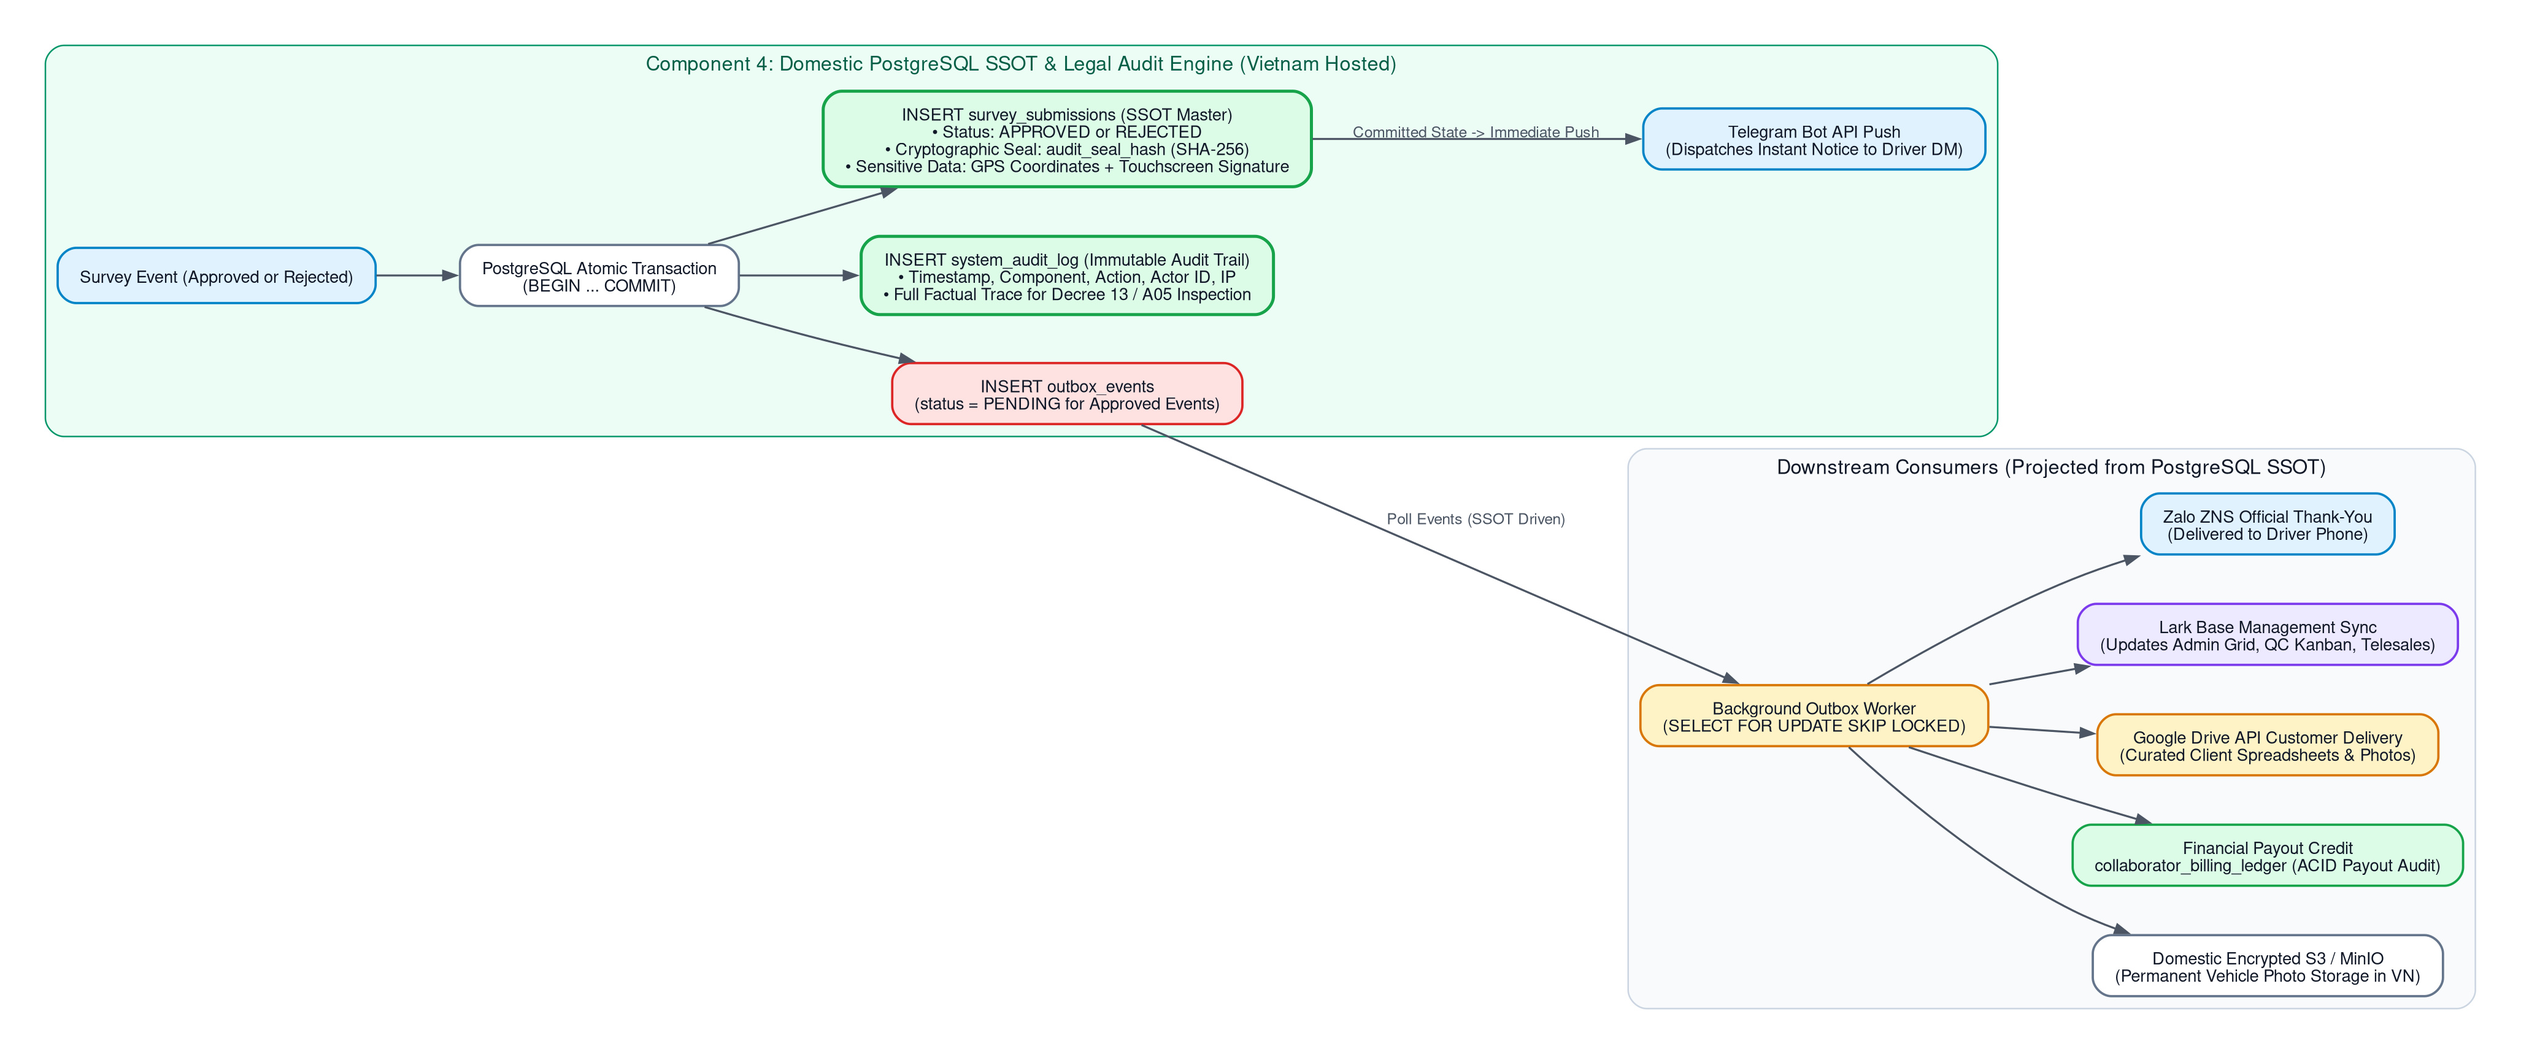
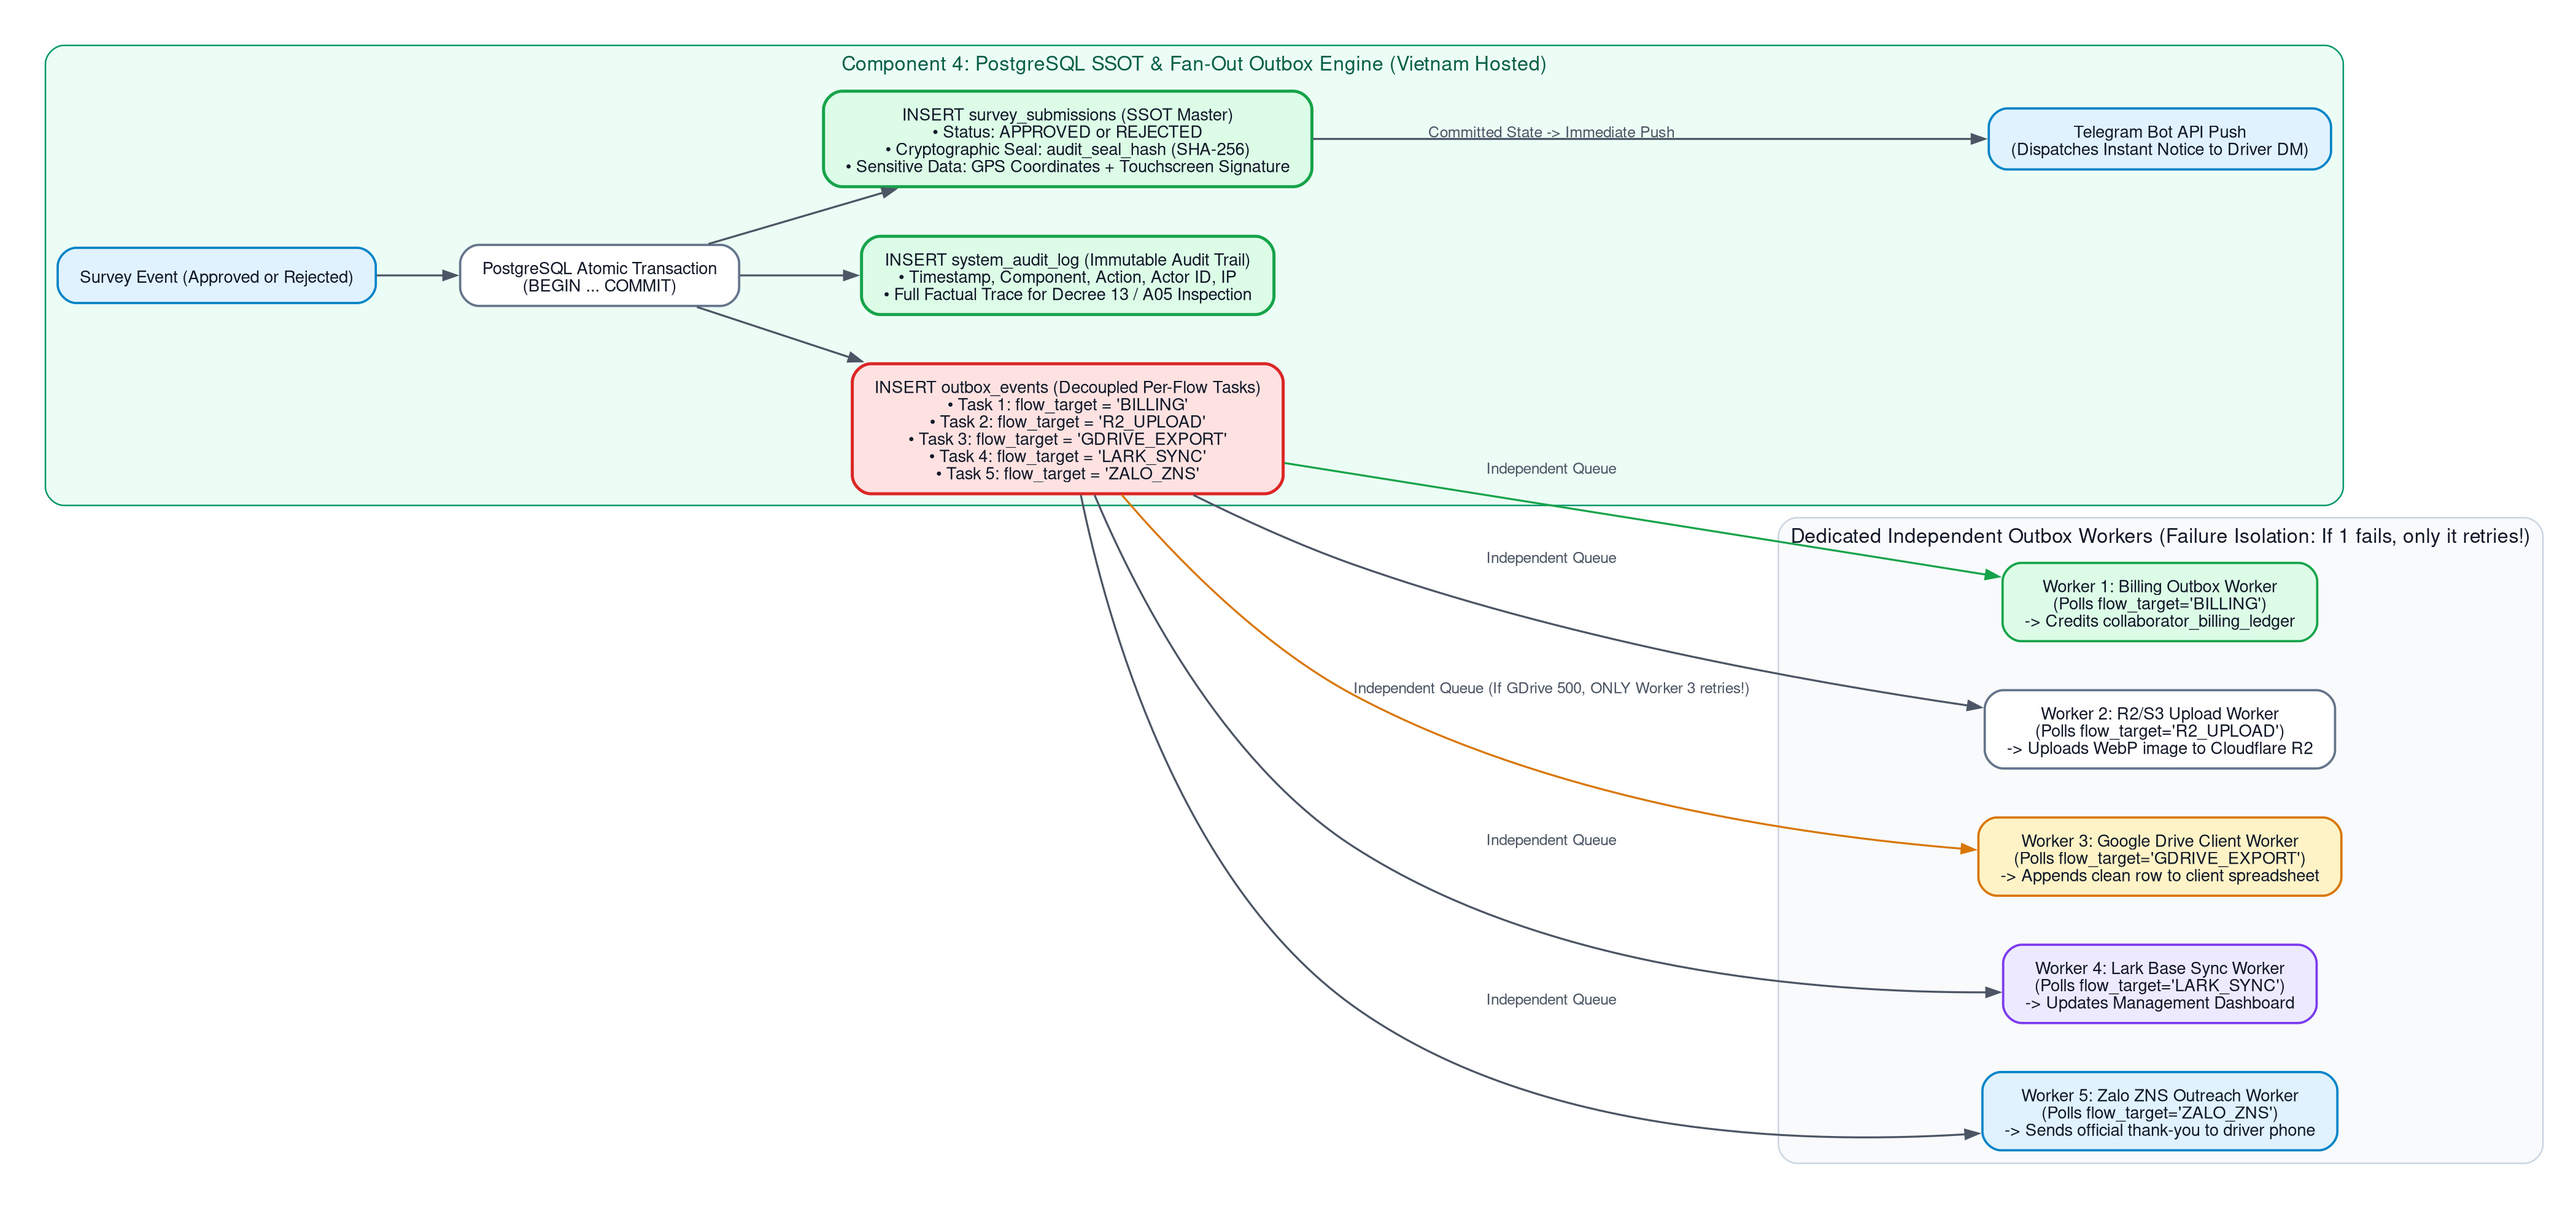
feat(outbox): decouple downstream dispatch into dedicated per-flow workers with failure isolation

diff --git a/render_charts.py b/render_charts.py
@@ -282,43 +282,43 @@ digraph G {
 }
 """
 
-# Chart 5: Component 4 Persistence & Delivery (SSOT Hub Architecture)
+# Chart 5: Component 4 Persistence & Delivery (Dedicated Per-Flow Outbox Workers)
 CHART_5 = COMMON_HEADER + """
     subgraph cluster_ssot_hub {
-        label="Component 4: Domestic PostgreSQL SSOT & Legal Audit Engine (Vietnam Hosted)";
+        label="Component 4: PostgreSQL SSOT & Fan-Out Outbox Engine (Vietnam Hosted)";
         style="rounded,filled"; fillcolor="#ecfdf5"; color="#059669"; fontcolor="#065f46";
 
         survey_event_in [label="Survey Event (Approved or Rejected)", fillcolor="#e0f2fe", color="#0284c7"];
         sql_tx [label="PostgreSQL Atomic Transaction\\n(BEGIN ... COMMIT)", fillcolor="#ffffff", color="#64748b"];
         sub_table [label="INSERT survey_submissions (SSOT Master)\\n• Status: APPROVED or REJECTED\\n• Cryptographic Seal: audit_seal_hash (SHA-256)\\n• Sensitive Data: GPS Coordinates + Touchscreen Signature", fillcolor="#dcfce7", color="#16a34a", penwidth=2.0];
         audit_log [label="INSERT system_audit_log (Immutable Audit Trail)\\n• Timestamp, Component, Action, Actor ID, IP\\n• Full Factual Trace for Decree 13 / A05 Inspection", fillcolor="#dcfce7", color="#16a34a", penwidth=2.0];
-        outbox_table [label="INSERT outbox_events\\n(status = PENDING for Approved Events)", fillcolor="#fee2e2", color="#dc2626"];
+        
+        outbox_fanout [label="INSERT outbox_events (Decoupled Per-Flow Tasks)\\n• Task 1: flow_target = 'BILLING'\\n• Task 2: flow_target = 'R2_UPLOAD'\\n• Task 3: flow_target = 'GDRIVE_EXPORT'\\n• Task 4: flow_target = 'LARK_SYNC'\\n• Task 5: flow_target = 'ZALO_ZNS'", fillcolor="#fee2e2", color="#dc2626", penwidth=2.0];
         tg_push [label="Telegram Bot API Push\\n(Dispatches Instant Notice to Driver DM)", fillcolor="#e0f2fe", color="#0284c7"];
     }
 
-    subgraph cluster_downstream_dispatch {
-        label="Downstream Consumers (Projected from PostgreSQL SSOT)";
+    subgraph cluster_dedicated_workers {
+        label="Dedicated Independent Outbox Workers (Failure Isolation: If 1 fails, only it retries!)";
         style="rounded,filled"; fillcolor="#f8fafc"; color="#cbd5e1";
 
-        poller [label="Background Outbox Worker\\n(SELECT FOR UPDATE SKIP LOCKED)", fillcolor="#fef3c7", color="#d97706"];
-        s3_upload [label="Domestic Encrypted S3 / MinIO\\n(Permanent Vehicle Photo Storage in VN)", fillcolor="#ffffff", color="#64748b"];
-        ledger_credit [label="Financial Payout Credit\\ncollaborator_billing_ledger (ACID Payout Audit)", fillcolor="#dcfce7", color="#16a34a"];
-        gdrive_sync [label="Google Drive API Customer Delivery\\n(Curated Client Spreadsheets & Photos)", fillcolor="#fef3c7", color="#d97706"];
-        lark_sync [label="Lark Base Management Sync\\n(Updates Admin Grid, QC Kanban, Telesales)", fillcolor="#ede9fe", color="#7c3aed"];
-        zns_notify [label="Zalo ZNS Official Thank-You\\n(Delivered to Driver Phone)", fillcolor="#e0f2fe", color="#0284c7"];
+        w_billing [label="Worker 1: Billing Outbox Worker\\n(Polls flow_target='BILLING')\\n-> Credits collaborator_billing_ledger", fillcolor="#dcfce7", color="#16a34a"];
+        w_r2 [label="Worker 2: R2/S3 Upload Worker\\n(Polls flow_target='R2_UPLOAD')\\n-> Uploads WebP image to Cloudflare R2", fillcolor="#ffffff", color="#64748b"];
+        w_gdrive [label="Worker 3: Google Drive Client Worker\\n(Polls flow_target='GDRIVE_EXPORT')\\n-> Appends clean row to client spreadsheet", fillcolor="#fef3c7", color="#d97706"];
+        w_lark [label="Worker 4: Lark Base Sync Worker\\n(Polls flow_target='LARK_SYNC')\\n-> Updates Management Dashboard", fillcolor="#ede9fe", color="#7c3aed"];
+        w_zalo [label="Worker 5: Zalo ZNS Outreach Worker\\n(Polls flow_target='ZALO_ZNS')\\n-> Sends official thank-you to driver phone", fillcolor="#e0f2fe", color="#0284c7"];
     }
 
     survey_event_in -> sql_tx;
     sql_tx -> sub_table;
     sql_tx -> audit_log;
-    sql_tx -> outbox_table;
+    sql_tx -> outbox_fanout;
     sub_table -> tg_push [label="Committed State -> Immediate Push"];
-    outbox_table -> poller [label="Poll Events (SSOT Driven)"];
-    poller -> s3_upload;
-    poller -> ledger_credit;
-    poller -> gdrive_sync;
-    poller -> lark_sync;
-    poller -> zns_notify;
+    
+    outbox_fanout -> w_billing [label="Independent Queue", color="#16a34a"];
+    outbox_fanout -> w_r2 [label="Independent Queue"];
+    outbox_fanout -> w_gdrive [label="Independent Queue (If GDrive 500, ONLY Worker 3 retries!)", color="#d97706"];
+    outbox_fanout -> w_lark [label="Independent Queue"];
+    outbox_fanout -> w_zalo [label="Independent Queue"];
 }
 """
 

diff --git a/workers/outbox_worker.py b/workers/outbox_worker.py
@@ -10,10 +10,13 @@ logging.basicConfig(level=logging.INFO)
 logger = logging.getLogger("outbox_worker")
 
 
-async def process_outbox_batch(conn_str: str, batch_size: int = 50) -> int:
+async def process_outbox_batch(
+    conn_str: str, batch_size: int = 50, flow_target: Optional[str] = None
+) -> int:
     """
     Polls and processes pending outbox events using FOR UPDATE SKIP LOCKED.
-    Bypasses PgBouncer transaction pooling limitations cleanly.
+    Supports dedicated worker loops per flow target (BILLING, R2_UPLOAD, GDRIVE_EXPORT, LARK_SYNC, ZALO_ZNS).
+    If one flow fails, only that flow retries, preventing cascading stalls across outputs.
     """
     processed_count = 0
     try:
@@ -22,18 +25,19 @@ async def process_outbox_batch(conn_str: str, batch_size: int = 50) -> int:
         ) as conn:
             async with conn.transaction():
                 async with conn.cursor() as cur:
-                    # 1. claim batch of events safely
+                    # 1. claim batch of events safely filtered by flow_target
                     await cur.execute(
                         """
-                        SELECT id, event_type, aggregate_id, payload
+                        SELECT id, event_type, flow_target, aggregate_id, payload
                         FROM outbox_events
-                        WHERE status = 'PENDING'
-                           OR (status = 'PROCESSING' AND locked_at < NOW() - INTERVAL '60 SECONDS')
+                        WHERE (%s IS NULL OR flow_target = %s OR flow_target = 'ALL')
+                          AND (status = 'PENDING'
+                               OR (status = 'PROCESSING' AND locked_at < NOW() - INTERVAL '60 SECONDS'))
                         ORDER BY id ASC
                         LIMIT %s
                         FOR UPDATE SKIP LOCKED;
                     """,
-                        (batch_size,),
+                        (flow_target, flow_target, batch_size),
                     )
                     events = await cur.fetchall()
 
@@ -57,11 +61,12 @@ async def process_outbox_batch(conn_str: str, batch_size: int = 50) -> int:
                                 payload = ev["payload"]
                                 submission_id = ev["aggregate_id"]
 
-                                if ev["event_type"] == "SURVEY_APPROVED":
+                                target = ev.get("flow_target", "ALL")
+
+                                # FLOW A: Financial Ledger Payout
+                                if target in ("BILLING", "ALL") and ev["event_type"] == "SURVEY_APPROVED":
                                     collab_id = payload.get("collaborator_id")
                                     payout_amount = payload.get("payout_vnd", 25000)
-
-                                    # credit financial ledger idempotently
                                     await cur.execute(
                                         """
                                         INSERT INTO collaborator_billing_ledger (
@@ -72,6 +77,21 @@ async def process_outbox_batch(conn_str: str, batch_size: int = 50) -> int:
                                         (collab_id, submission_id, payout_amount),
                                     )
 
+                                # FLOW B: Cloudflare R2 Upload (simulated / dispatched)
+                                elif target == "R2_UPLOAD":
+                                    logger.info(f"[R2_WORKER] uploaded image for #{submission_id}")
+
+                                # FLOW C: Google Drive Client Export (simulated / dispatched)
+                                elif target == "GDRIVE_EXPORT":
+                                    logger.info(f"[GDRIVE_WORKER] exported spreadsheet row for #{submission_id}")
+
+                                # FLOW D: Lark Base Dashboard Sync
+                                elif target == "LARK_SYNC":
+                                    logger.info(f"[LARK_WORKER] synced survey #{submission_id} to Lark Base")
+
+                                # FLOW E: Zalo ZNS Phone Notification
+                                elif target == "ZALO_ZNS":
+                                    logger.info(f"[ZALO_WORKER] sent ZNS thank-you for #{submission_id}")
                                 # mark as processed
                                 await cur.execute(
                                     """
